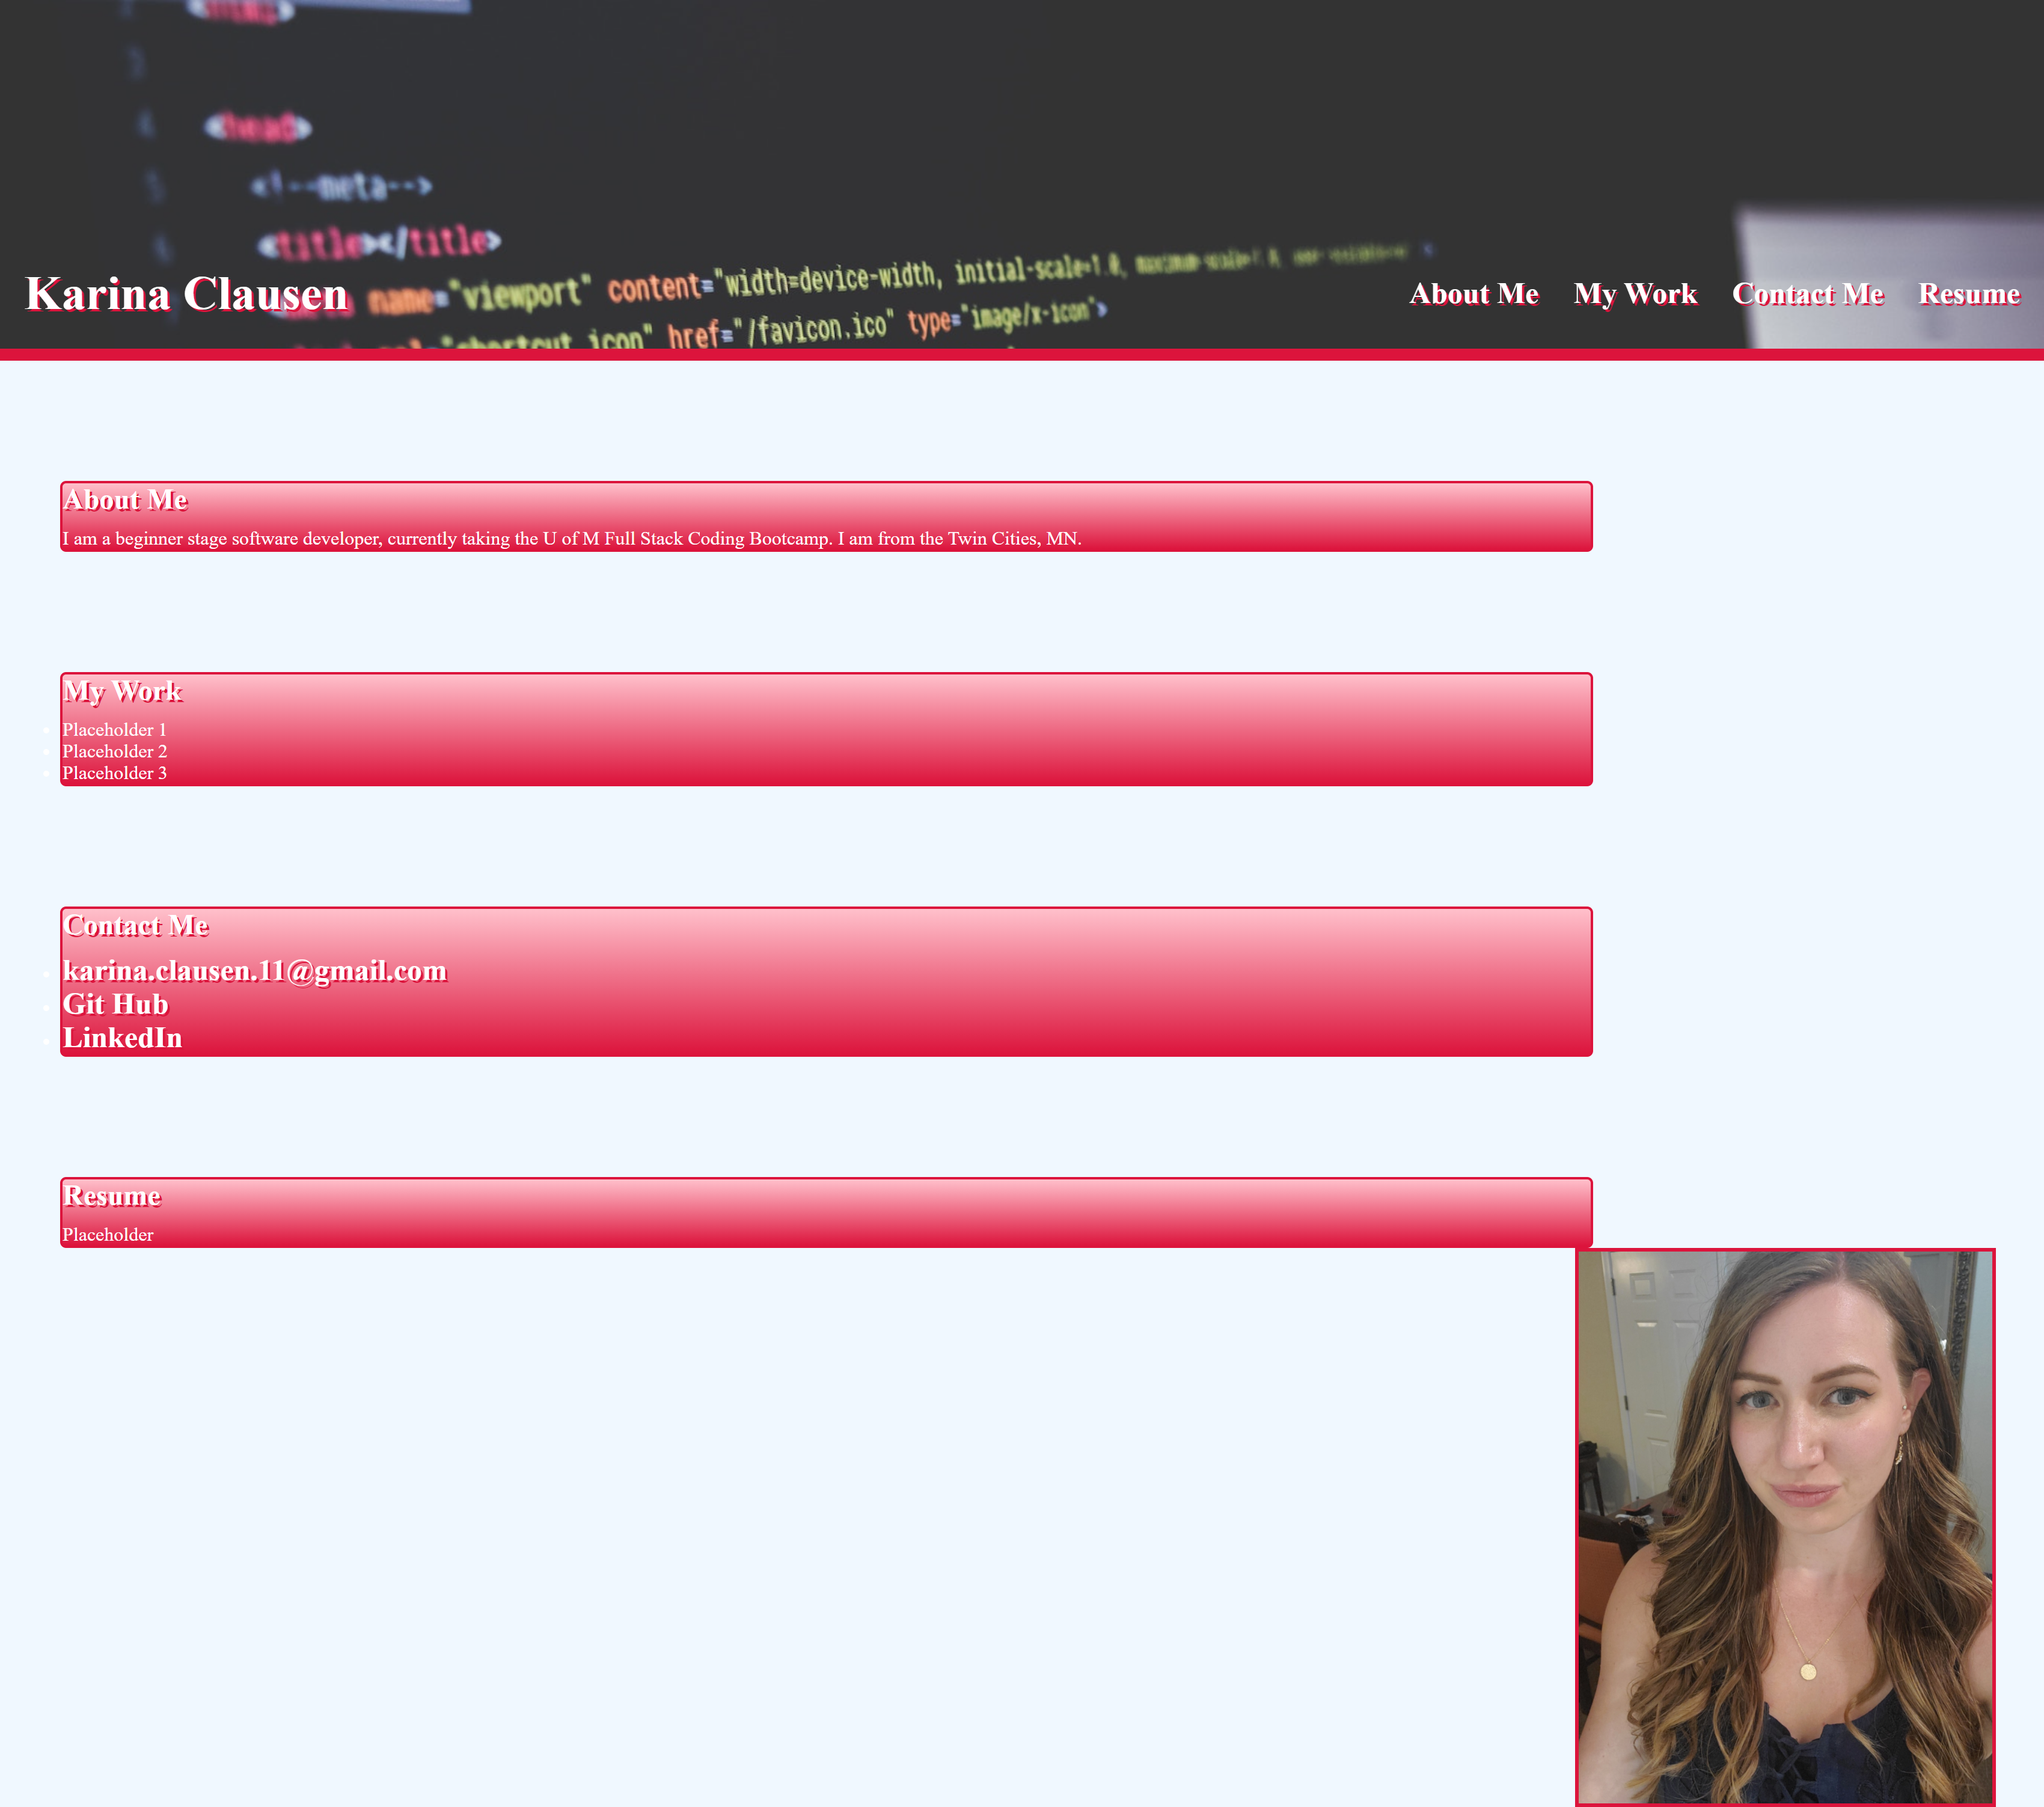
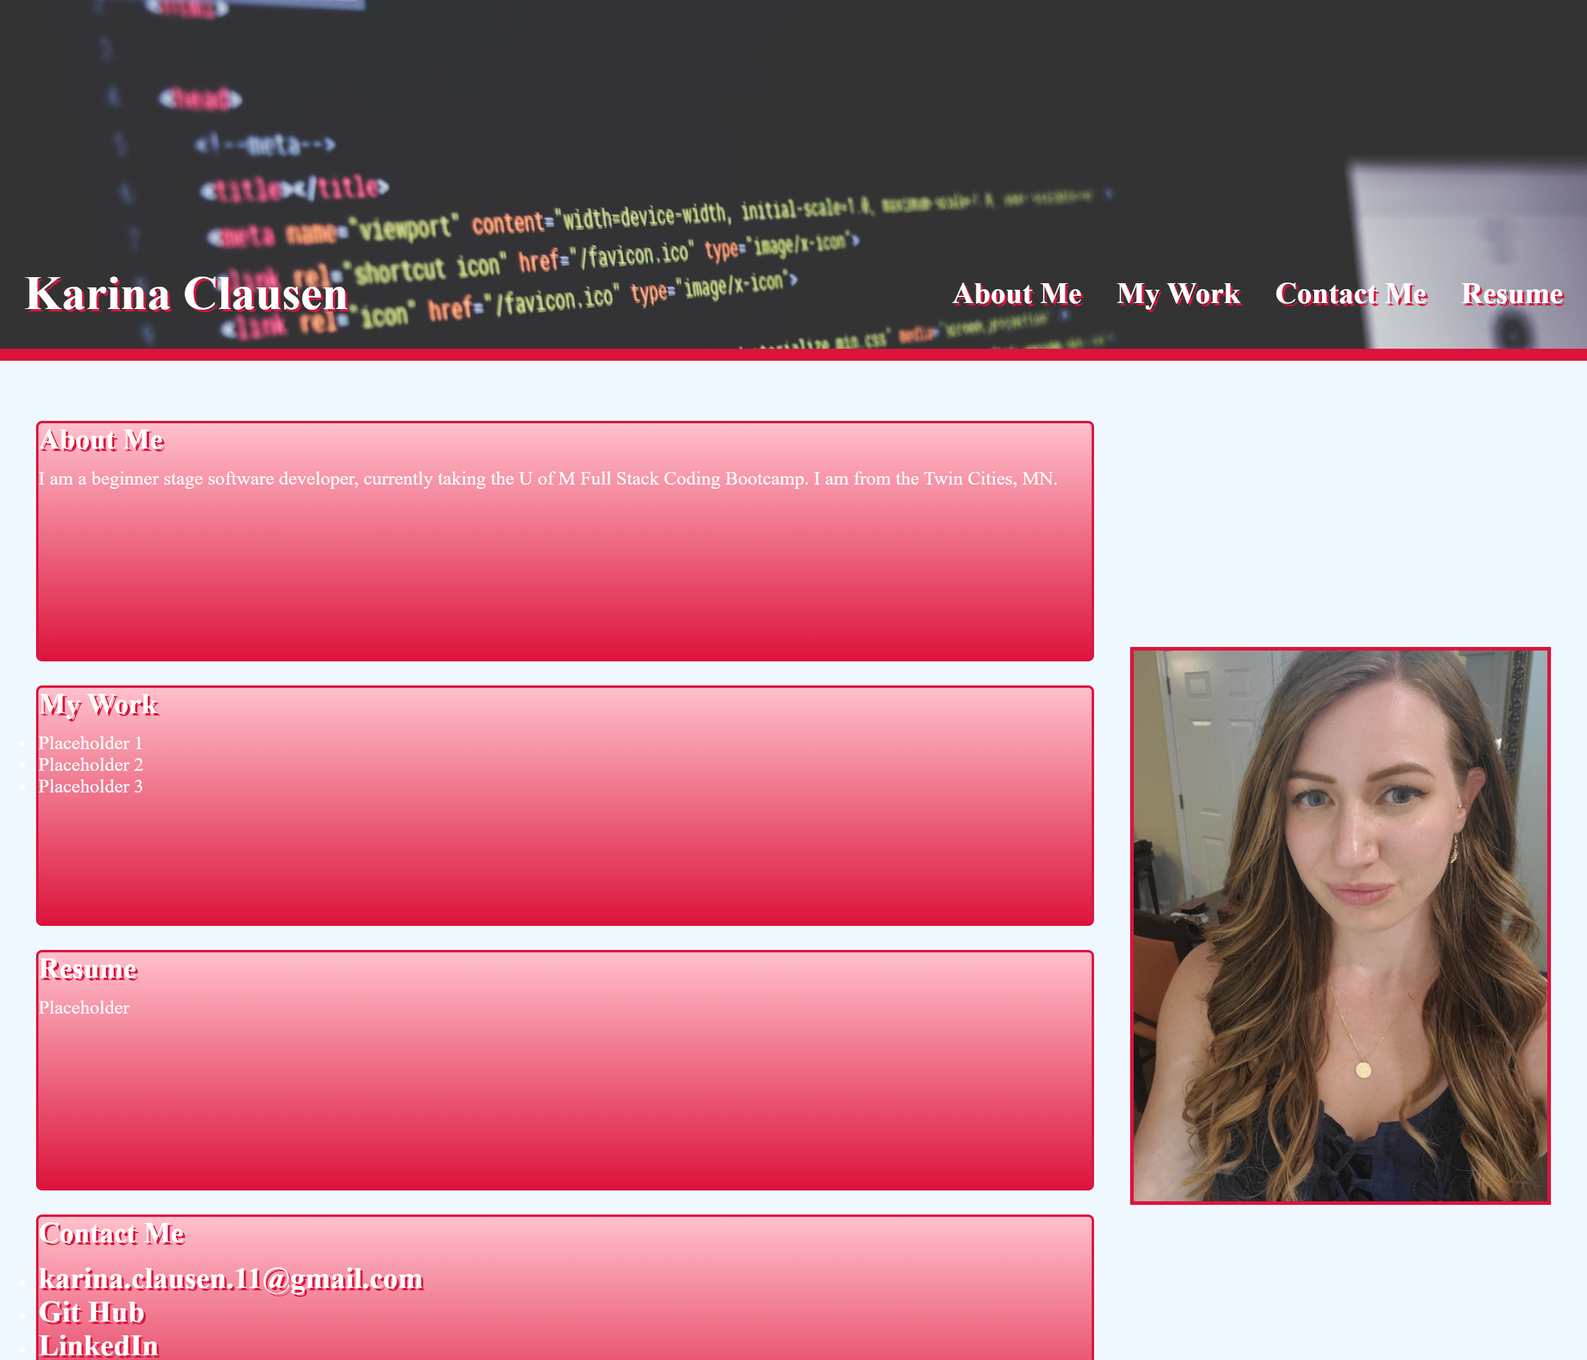
fixed aside, added footer, made section boxes even

diff --git a/index.html b/index.html
@@ -23,46 +23,51 @@
     </header>
   
     <main class="content">
-        <section id="aboutme">
-            <h2>About Me</h2>
-            <p>
-                I am a beginner stage software developer, currently taking the U of M Full Stack Coding Bootcamp. I am from the Twin Cities, MN.
-            </p>
-        </section>
+        <div class="section-container">
+            <section id="aboutme">
+                <h2>About Me</h2>
+                <p>
+                    I am a beginner stage software developer, currently taking the U of M Full Stack Coding Bootcamp. I am from the Twin Cities, MN.
+                </p>
+            </section>
 
-        <section id="mywork">
-            <h2>My Work</h2>
+            <section id="mywork">
+                <h2>My Work</h2>
+                    <ul>
+                        <!-- Do not have work assignments to link yet -->
+                        <li>Placeholder 1</li>
+                        <li>Placeholder 2</li>
+                        <li>Placeholder 3</li>
+                    </ul>
+            </section>
+
+            <section id="resume">
+                <h2>Resume</h2>
+                <p>
+                    Placeholder
+                    <!-- Do not have coding specific resume to link yet -->
+                </p>
+            </section>
+
+            <section id="contactme">
+                <h2>Contact Me</h2>
                 <ul>
-                    <!-- Do not have work assignments to link yet -->
-                    <li>Placeholder 1</li>
-                    <li>Placeholder 2</li>
-                    <li>Placeholder 3</li>
+                    <li> <a target="_blank" href="mailto:karina.clausen.11@gmail.com">karina.clausen.11@gmail.com</a> </li>
+                    <li> <a target="_blank" href="https://github.com/Karina5151">Git Hub </a> </li>
+                    <li> <a target="_blank" href="https://www.linkedin.com/in/karina-clausen-5049aaa9/"> LinkedIn </a></li>
                 </ul>
-        </section>
-
-        <section id="contactme">
-            <h2>Contact Me</h2>
-            <ul>
-                <li> <a target="_blank" href="mailto:karina.clausen.11@gmail.com">karina.clausen.11@gmail.com</a> </li>
-                <li> <a target="_blank" href="https://github.com/Karina5151">Git Hub </a> </li>
-                <li> <a target="_blank" href="https://www.linkedin.com/in/karina-clausen-5049aaa9/"> LinkedIn </a></li>
-            </ul>
-        </section>
-        <section id="resume">
-            <h2>Resume</h2>
-            <p>
-                Placeholder
-                <!-- Do not have coding specific resume to link yet -->
-            </p>
-        </section>
-    </main>
-
-    <aside>
-        <div>
-            <img src="assets/images/20200819_214111_resized_1.jpg">
+            </section>
         </div>
-    </aside>
 
+        <aside>
+            <div class="imgcontainer">
+                <img src="assets/images/20200819_214111_resized_1.jpg">
+            </div>
+        </aside>
+    </main>
+<footer>
+    
+</footer>
 </body>
 
 </html>

diff --git a/assets/css/style.css b/assets/css/style.css
@@ -34,9 +34,7 @@ a {
     background-size: cover;
     background-repeat: no-repeat;
     height: 300px;
-    
 }
-
 
 .nav-links {
     list-style-type: none;
@@ -47,21 +45,28 @@ a {
     margin-left: 25px;
 }
 
-section {
-    margin-top: 100px;
-    display: inline-block;
-    margin-left: 50px;
-    width: 75%;
-    margin-right: 50px;
+main {
+    display: flex;
+    align-items: center;
+    margin: 30px;
+}
+
+.section-container {
+    display: flex;
+    flex-direction: column;
+    justify-content: center;
+    width: 100%;
+}
+
+.section-container > section {
+    height: 200px;
+    margin-top: 20px;
     border: 2px solid crimson;
-    flex: 1 0 100%;
-    display: block;
-    flex-wrap: wrap;
-    flex-direction: row;
     border-radius: 5px;
     color: white;
     background-image: linear-gradient(pink, crimson);
 }
+
 
 h2 {
     padding-bottom: 10px;
@@ -73,11 +78,21 @@ body {
     background-color: aliceblue;
 }
 
-/* Could not figure out how to make my picture smaller and look like an aside box next to the section boxes */
-div {
+aside {
+    float: right;
+    margin-left: 30px;
+   
+}
+
+.img-container {
     display: block;
-    margin-right: 40px;
+    justify-content: center;
+    width: 100%;
+    margin-top: 600px;
+    /* height: auto;
+    background-color: pink; */
 } 
+
 
 img {
     max-width: 350px;
@@ -85,3 +100,28 @@ img {
     float: right;
     border: 3px solid crimson;
 }
+
+footer {
+    padding-top: 20px;
+    background-color: pink;
+    padding-bottom: 20px;
+    border-top: 10px solid crimson;
+}
+
+
+/* Cannot get the media tags to work correctly */
+
+/* @media screen and (min-width: 768px) {
+    header {
+        flex: 0 0 50%;
+        max-width: 50%;
+    }
+}
+
+
+@media screen and (min-width: 992px) {
+    main {
+        flex: 0 0 33.333%;
+        max-width: 33.333%;
+    }
+} */

diff --git a/README.md b/README.md
@@ -6,5 +6,6 @@
 
 ## Mock-Up
     The following image shows the web page's appearance AFTER I completed my editing of both the html and css files:
-    ![finished-portfolio-screenshot](../assets/images/finished-portfolio-screenshot.png)
+![finished-portfolio-screenshot](./assets/images/finished-portfolio-screenshot.png)
+   
     
